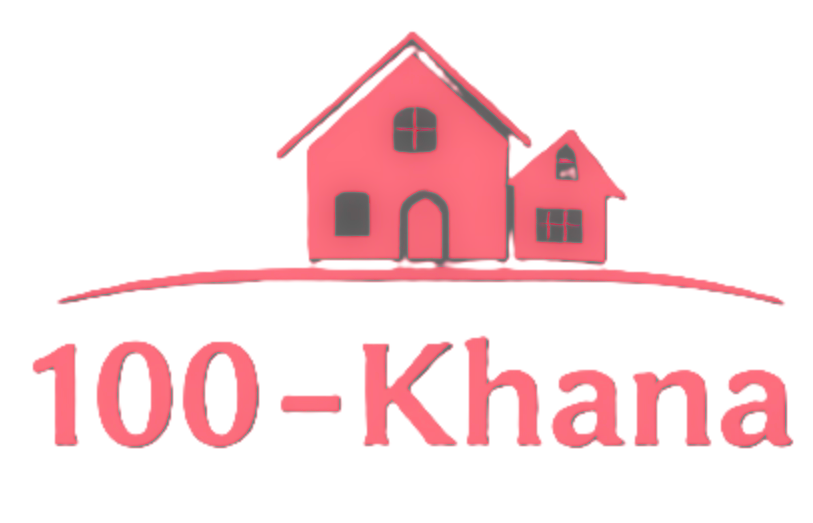
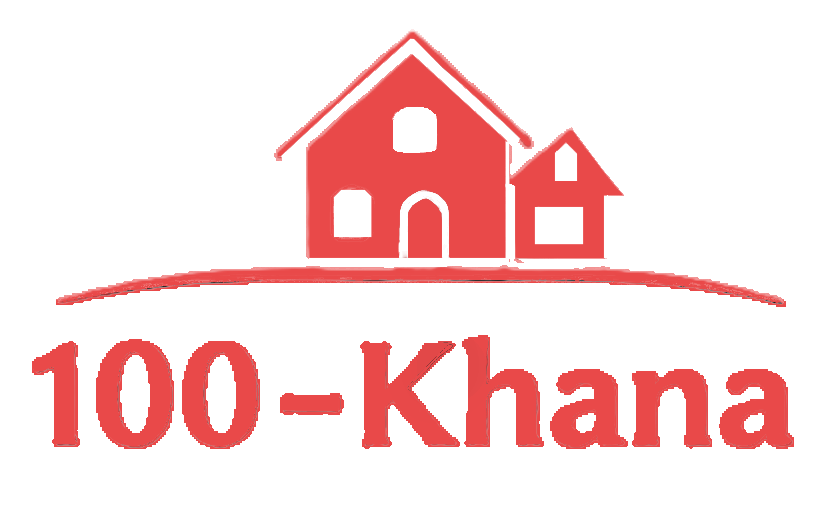
footer and header updated

Changed region(s): [[0.0615, 0.0612, 0.984, 0.5813], [0.0308, 0.6424, 0.984, 0.8566]]

diff --git a/src/components/Header.tsx b/src/components/Header.tsx
@@ -9,12 +9,12 @@ export default function Header() {
   const [isScrolled, setIsScrolled] = useState(false);
 
   useEffect(() => {
-    window.addEventListener("scroll", () => {
-      console.log(window.scrollY);
+    const handleScroll = () => {
       setIsScrolled(window.scrollY > 100);
-    });
+    };
 
-    return () => window.removeEventListener("scroll", () => {});
+    window.addEventListener("scroll", handleScroll);
+    return () => window.removeEventListener("scroll", handleScroll);
   }, []);
 
   return (
@@ -27,7 +27,7 @@ export default function Header() {
         {/* Logo */}
         <div className="text-2xl font-bold text-gray-800 cursor-pointer">
           <a href="/">
-            <img src="/100khana.png" alt="Our logo" className="w-16 h-12" />
+            <img src="/100khana.png" alt="Our logo" className="w-18 h-12" />
           </a>
         </div>
         {/* Navigation Links */}

diff --git a/src/components/Footer.tsx b/src/components/Footer.tsx
@@ -121,9 +121,9 @@ export default function Footer() {
         </div>
 
         {/* Bottom Illustration */}
-        <div className="relative h-24 mt-8">
-          <div className="absolute bottom-0 left-0 right-0">
-            <div className="h-16 bg-gradient-to-r from-red-600 to-purple-700 opacity-20 rounded-t-3xl"></div>
+        <div className="relative  mt-12 mb-4">
+          <div className=" max-w-2xl mx-auto">
+            <img src="/footer-illustration.png" alt="" />
           </div>
         </div>
 
